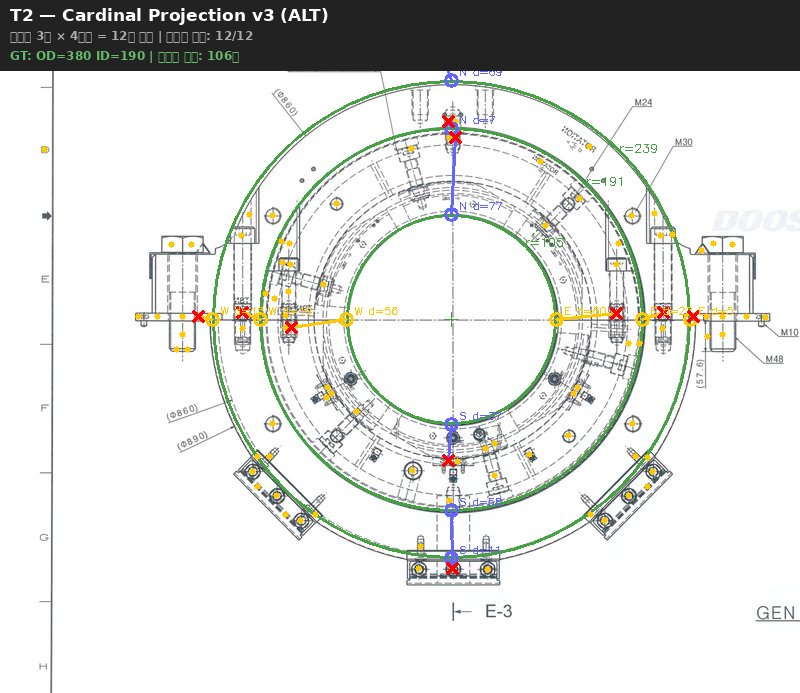
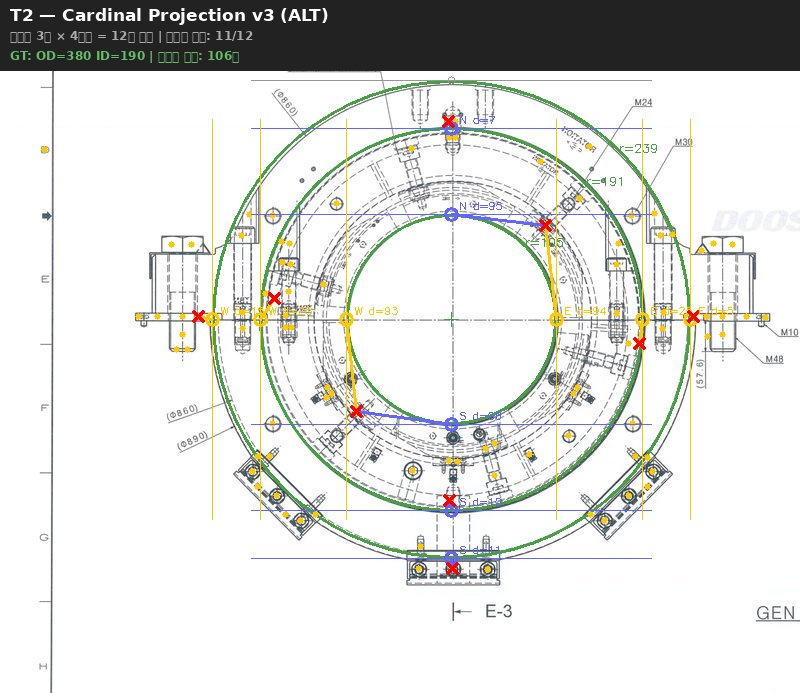
fix(S08): Cardinal v3 접선 방향 수정 — 끝점에서 바깥이 아닌 접선으로 스캔
N/S 끝점 → 수평 접선, E/W 끝점 → 수직 접선으로 양쪽 200px 스캔.
치수선이 원에 접하는 방향이므로 접선 스캔이 물리적으로 정확.
tolerance 25px→15px, scan_length 80px→200px으로 조정.

diff --git a/blueprint-ai-bom/scripts/s08_cardinal_v3_alt.py b/blueprint-ai-bom/scripts/s08_cardinal_v3_alt.py
@@ -138,27 +138,35 @@ def detect_arrowheads_morphology(gray, min_area=30, max_area=800):
 
 # ── 3. Cardinal Projection ──
 
-def cardinal_projection(circles, arrows, gray, scan_length=80, tolerance=25):
-    """각 원의 N/S/E/W 끝점에서 투사선 → 화살촉 매칭
+def cardinal_projection(circles, arrows, gray, scan_length=200, tolerance=15):
+    """각 원의 N/S/E/W 끝점에서 접선 방향 스캔 → 화살촉 매칭
 
-    scan_length: 끝점에서 바깥 방향으로 스캔할 거리 (px)
-    tolerance: 투사선과 화살촉 사이 최대 거리 (px)
+    핵심: 끝점에서 바깥이 아니라 **접선 방향**으로 직선을 긋는다.
+      N/S 끝점 → 가로(수평) 접선을 양쪽으로 scan_length만큼 스캔
+      E/W 끝점 → 세로(수직) 접선을 양쪽으로 scan_length만큼 스캔
+
+    scan_length: 접선 방향으로 양쪽 스캔 거리 (px)
+    tolerance: 접선과 화살촉 사이 수직 거리 최대값 (px)
     """
     h, w = gray.shape
     if not arrows:
         return []
 
-    arrow_pts = np.array([[a["x"], a["y"]] for a in arrows], dtype=np.float32)
     results = []
 
+    # N/S = 수평 접선, E/W = 수직 접선
+    # (방향명, 끝점 dx, 끝점 dy, 접선축='h'수평/'v'수직)
     directions = [
-        ("N", 0, -1), ("S", 0, 1), ("E", 1, 0), ("W", -1, 0),
+        ("N", 0, -1, "h"),  # 북쪽 끝점 → 가로 접선
+        ("S", 0,  1, "h"),  # 남쪽 끝점 → 가로 접선
+        ("E", 1,  0, "v"),  # 동쪽 끝점 → 세로 접선
+        ("W", -1, 0, "v"),  # 서쪽 끝점 → 세로 접선
     ]
 
     for ci, (cx, cy, r) in enumerate(circles):
         circle_hits = []
 
-        for dir_name, dx, dy in directions:
+        for dir_name, dx, dy, tangent_axis in directions:
             # 끝점
             px = cx + r * dx
             py = cy + r * dy
@@ -166,28 +174,23 @@ def cardinal_projection(circles, arrows, gray, scan_length=80, tolerance=25):
             if px < 0 or py < 0 or px >= w or py >= h:
                 continue
 
-            # 투사선: 끝점에서 바깥 방향으로 scan_length
-            # 투사선 위의 화살촉 검색
-            # 화살촉이 투사선(직선) 근처에 있는지 체크
+            # 접선 위의 화살촉 검색
             matches = []
             for ai, arrow in enumerate(arrows):
                 ax, ay = arrow["x"], arrow["y"]
 
-                if dx != 0:  # E/W 방향 = 수평선
-                    # y 좌표가 비슷하고, x가 끝점보다 바깥에 있는지
+                if tangent_axis == "h":
+                    # 수평 접선: y좌표가 끝점과 비슷, x는 양쪽 scan_length 이내
                     if abs(ay - py) > tolerance:
                         continue
-                    if dx > 0 and not (px <= ax <= px + scan_length):
-                        continue
-                    if dx < 0 and not (px - scan_length <= ax <= px):
+                    if not (px - scan_length <= ax <= px + scan_length):
                         continue
                     dist_from_line = abs(ay - py)
-                else:  # N/S 방향 = 수직선
+                else:
+                    # 수직 접선: x좌표가 끝점과 비슷, y는 양쪽 scan_length 이내
                     if abs(ax - px) > tolerance:
                         continue
-                    if dy > 0 and not (py <= ay <= py + scan_length):
-                        continue
-                    if dy < 0 and not (py - scan_length <= ay <= py):
+                    if not (py - scan_length <= ay <= py + scan_length):
                         continue
                     dist_from_line = abs(ax - px)
 
@@ -245,6 +248,9 @@ def visualize_cardinal(img, circles, arrows, projections, name, gt):
     }
 
     hit_count = 0
+    scan_vis = 200
+    tangent_map = {"N": "h", "S": "h", "E": "v", "W": "v"}
+
     for proj in projections:
         cx, cy, r = proj["cx"], proj["cy"], proj["r"]
 
@@ -253,13 +259,23 @@ def visualize_cardinal(img, circles, arrows, projections, name, gt):
             ep = hit["endpoint"]
             ap = hit["arrow"]
             color = dir_colors.get(d, (200, 200, 200))
+            tangent = tangent_map[d]
 
-            # 투사선 (끝점 → 화살촉)
-            cv2.line(canvas, (int(ep[0]), int(ep[1])),
+            # 접선 (수평 또는 수직)
+            epx, epy = int(ep[0]), int(ep[1])
+            if tangent == "h":
+                cv2.line(canvas, (epx - scan_vis, epy),
+                         (epx + scan_vis, epy), color, 1)
+            else:
+                cv2.line(canvas, (epx, epy - scan_vis),
+                         (epx, epy + scan_vis), color, 1)
+
+            # 끝점 → 화살촉 연결선 (굵게)
+            cv2.line(canvas, (epx, epy),
                      (int(ap["x"]), int(ap["y"])), color, 2)
 
             # 끝점 마커 (큰 원)
-            cv2.circle(canvas, (int(ep[0]), int(ep[1])), 6, color, 2)
+            cv2.circle(canvas, (epx, epy), 6, color, 2)
 
             # 화살촉 히트 (빨간 X)
             cv2.drawMarker(canvas, (int(ap["x"]), int(ap["y"])),
@@ -267,26 +283,29 @@ def visualize_cardinal(img, circles, arrows, projections, name, gt):
 
             # 방향 라벨
             cv2.putText(canvas, f"{d} d={hit['dist']:.0f}",
-                        (int(ep[0]) + 8, int(ep[1]) - 5),
+                        (epx + 8, epy - 5),
                         cv2.FONT_HERSHEY_SIMPLEX, 0.35, color, 1)
 
             hit_count += 1
 
-    # 히트 없는 방향도 투사선 표시 (회색 점선 효과)
+    # 히트 없는 방향도 접선 표시 (회색)
+    scan_len = 200
     for proj in projections:
         cx, cy, r = proj["cx"], proj["cy"], proj["r"]
         hit_dirs = {h["direction"] for h in proj["hits"]}
 
-        for dir_name, dx, dy in [("N", 0, -1), ("S", 0, 1),
-                                  ("E", 1, 0), ("W", -1, 0)]:
+        for dir_name, dx, dy, tangent in [("N", 0, -1, "h"), ("S", 0, 1, "h"),
+                                           ("E", 1, 0, "v"), ("W", -1, 0, "v")]:
             if dir_name in hit_dirs:
                 continue
             px = cx + r * dx
             py = cy + r * dy
-            ex = px + 80 * dx
-            ey = py + 80 * dy
-            cv2.line(canvas, (int(px), int(py)), (int(ex), int(ey)),
-                     (150, 150, 150), 1)
+            if tangent == "h":  # 수평 접선
+                cv2.line(canvas, (int(px - scan_len), int(py)),
+                         (int(px + scan_len), int(py)), (150, 150, 150), 1)
+            else:  # 수직 접선
+                cv2.line(canvas, (int(px), int(py - scan_len)),
+                         (int(px), int(py + scan_len)), (150, 150, 150), 1)
             cv2.circle(canvas, (int(px), int(py)), 4, (150, 150, 150), 1)
 
     # 반지름 라벨
